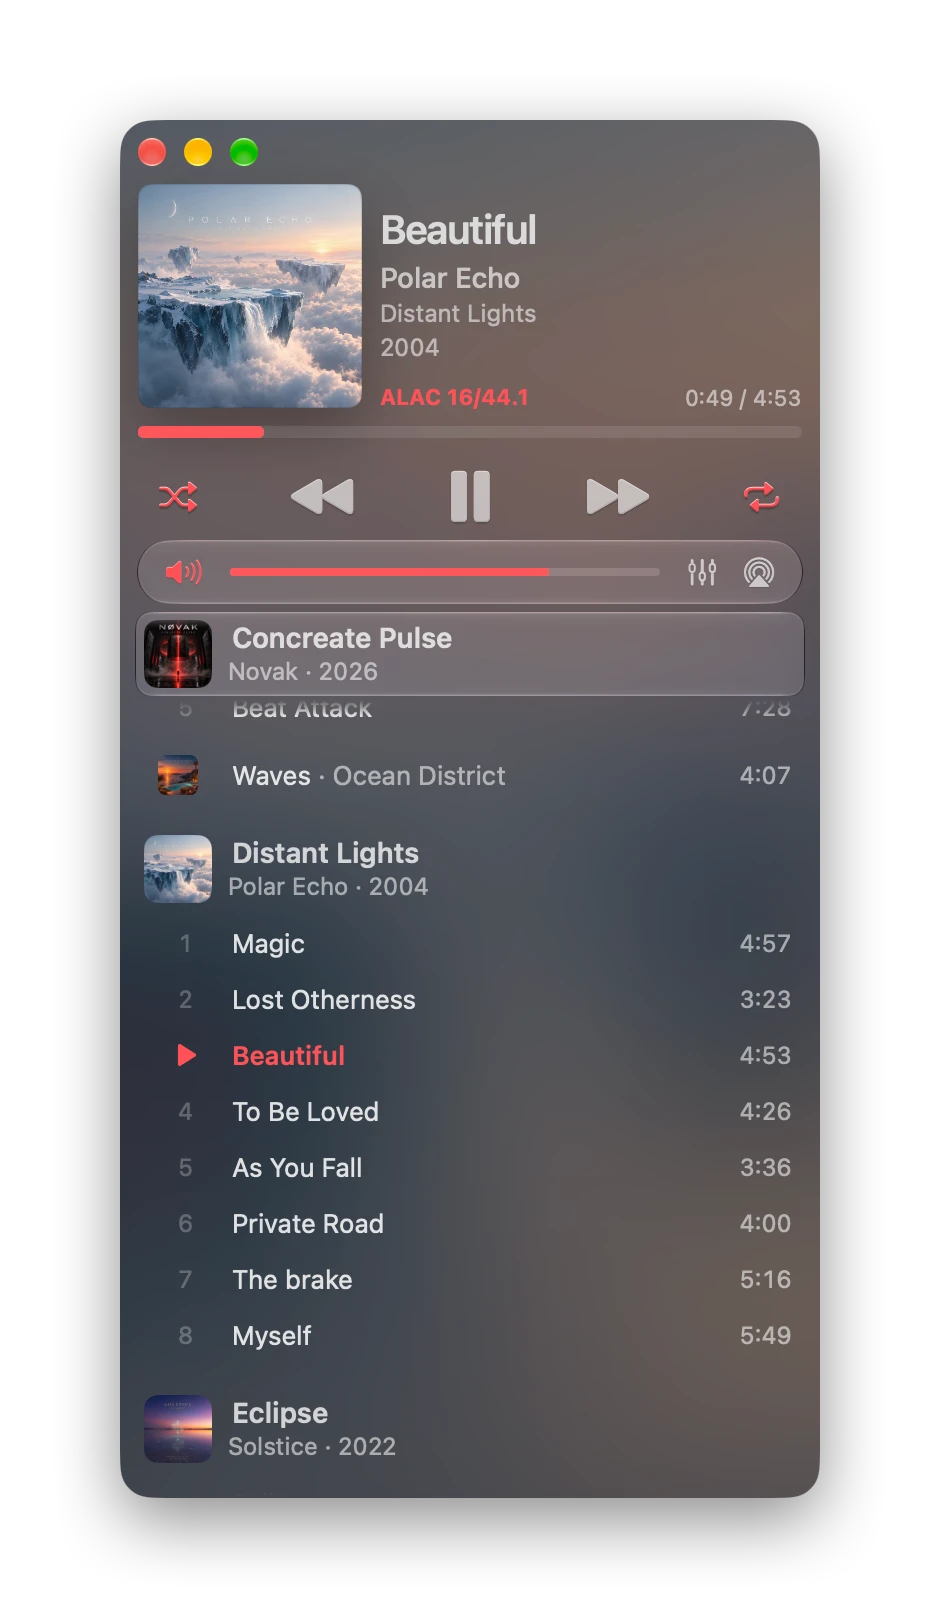
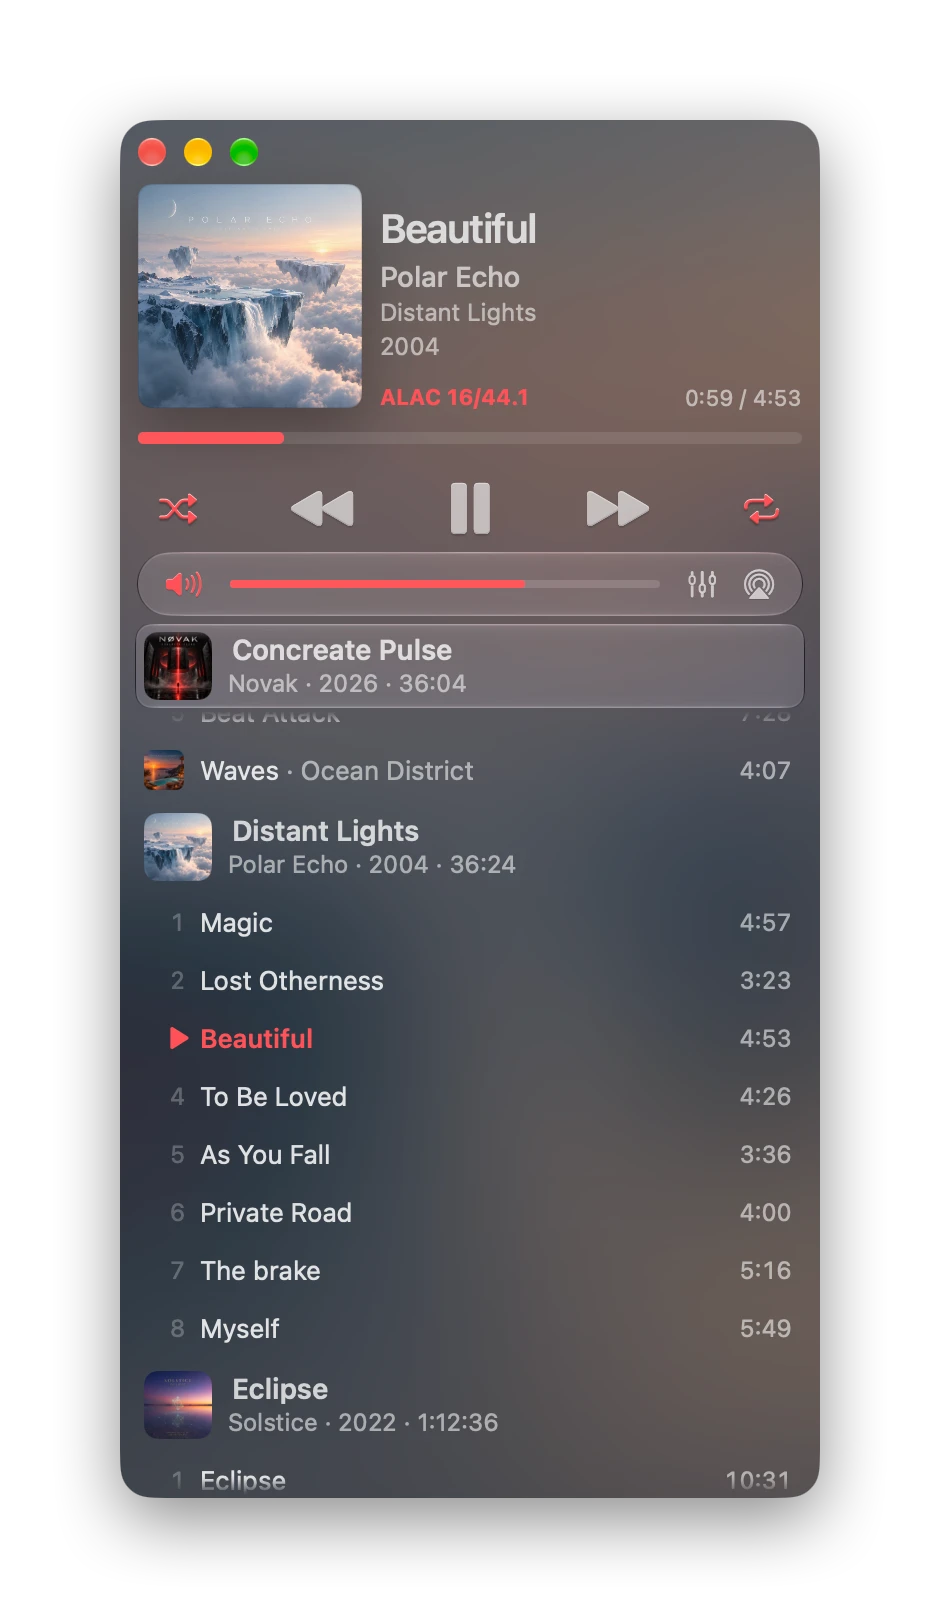
Airy for Mac: 10 new screenshots; Dynamic, Up Next, wide player and compact player sections
Claude-Session: https://claude.ai/code/session_01KuEoozSMi7F77NgTPBECaD

diff --git a/index.html b/index.html
@@ -49,14 +49,14 @@
                 "screenshot": [
                     "https://airyaudio.com/images/player-web.webp",
                     "https://airyaudio.com/images/light-dark-web.webp",
-                    "https://airyaudio.com/images/equalizer-info-web.webp",
-                    "https://airyaudio.com/images/cover-mode-web.webp",
-                    "https://airyaudio.com/images/playlist-views-web.webp",
-                    "https://airyaudio.com/images/pin-artist-web.webp",
+                    "https://airyaudio.com/images/dynamic-web.webp",
                     "https://airyaudio.com/images/album-view-web.webp",
-                    "https://airyaudio.com/images/equalizer-presets-web.webp",
-                    "https://airyaudio.com/images/output-web.webp",
-                    "https://airyaudio.com/images/cover-playlist-web.webp"
+                    "https://airyaudio.com/images/up-next-web.webp",
+                    "https://airyaudio.com/images/one-line-web.webp",
+                    "https://airyaudio.com/images/compact-web.webp",
+                    "https://airyaudio.com/images/equalizer-info-web.webp",
+                    "https://airyaudio.com/images/queue-web.webp",
+                    "https://airyaudio.com/images/cover-mode-web.webp"
                 ],
                 "applicationCategory": "MultimediaApplication",
                 "applicationSubCategory": "Music player",
@@ -129,7 +129,7 @@
             <p class="cta-note">Free to download. Try every Airy Upgrade feature free for 14 days.</p>
             </div>
             <div class="hero-shot bare zoomable">
-                <img src="images/player-web.webp" width="940" height="1618" alt="The Airy player window in Dynamic style with a red accent: album cover, song title, the format ALAC 16/44.1, play controls, a glass volume bar and the playlist grouped by album">
+                <img src="images/player-web.webp" width="940" height="1618" alt="The Airy player in Dynamic style with a red accent: album cover, song title, the format ALAC 16/44.1, play controls, a glass volume bar and the playlist grouped by album, each album with its year and length">
             </div>
         </div>
     </div>
@@ -171,7 +171,7 @@
                 <div class="card">
                     <div class="icon-badge pink"><svg viewBox="0 0 24 24" fill="none" stroke="currentColor" stroke-width="2" stroke-linecap="round" aria-hidden="true"><rect x="3" y="4" width="6" height="6" rx="1.5"/><path d="M12 6h9M12 9h6M5 14h16M5 18h16"/></svg></div>
                     <h3>Album-first playlist</h3>
-                    <p>Songs grouped by album, with covers. Drag and drop to add and reorder, instant search, undo and redo.</p>
+                    <p>Songs grouped by album, with covers, the year and the album's length. Drag and drop to add and reorder, instant search, undo and redo.</p>
                 </div>
             </div>
         </div>
@@ -181,7 +181,7 @@
     <section>
         <div class="wrap">
             <div class="showcase reveal">
-                <div class="shot bare zoomable"><img src="images/light-dark-web.webp" width="1740" height="1618" loading="lazy" alt="Airy in Light with a blue accent and in Dark with a pink one"></div>
+                <div class="shot bare zoomable"><img src="images/light-dark-web.webp" width="1780" height="1658" loading="lazy" alt="Airy in Light with a blue accent and in Dark with a pink one"></div>
                 <div>
                     <span class="tag">Styles and colors</span>
                     <h3>Light, Dark and your own color.</h3>
@@ -191,27 +191,16 @@
             </div>
 
             <div class="showcase flip reveal">
-                <div class="shot bare zoomable"><img src="images/playlist-views-web.webp" width="2000" height="1408" loading="lazy" alt="Four Airy windows: an album name stuck at the top, collapsed albums, a pinned artist and a compact player"></div>
+                <div class="shot bare zoomable"><img src="images/dynamic-web.webp" width="2000" height="1285" loading="lazy" alt="Three Airy windows in the Dynamic style, tinted blue, red and green by their album covers"></div>
                 <div>
-                    <span class="tag">Playlist</span>
-                    <h3>Your music, your way.</h3>
-                    <p>Stick Albums keeps the album name at the top while you scroll. Collapse Albums turns a long playlist into a tidy list of album names, and the one you pick opens.</p>
-                    <p>Make the window as small as a compact player, or hide the cover, the volume bar or the window controls.</p>
+                    <span class="tag">Dynamic style</span>
+                    <h3>Every album, its own color.</h3>
+                    <p>In the Dynamic style the window takes its glow and its accent color from the playing album's cover, and changes with every album.</p>
                 </div>
             </div>
 
             <div class="showcase reveal">
-                <div class="shot bare zoomable narrow"><img src="images/pin-artist-web.webp" width="940" height="1690" loading="lazy" alt="Pin Artist: only The Neon Echoes' albums, with their covers in the plate on top"></div>
-                <div>
-                    <span class="tag">Pin Artist and Pin Playlist</span>
-                    <h3>Only what you want to hear.</h3>
-                    <p>Right-click a song and choose Pin Artist: the list shows only that artist's albums and songs, with their covers on top. Play from there, and the music stays with them.</p>
-                    <p>Pin Playlist, new in Airy 1.1, shows only the songs of a playlist file you added, in its own order. Pins only filter what you see; playback stays where you started it.</p>
-                </div>
-            </div>
-
-            <div class="showcase flip reveal">
-                <div class="shot bare zoomable"><img src="images/album-view-web.webp" width="2000" height="1516" loading="lazy" alt="Album View: a wide Airy window with the albums as a grid of covers, one album open with its songs in two columns"></div>
+                <div class="shot bare zoomable"><img src="images/album-view-web.webp" width="2000" height="1362" loading="lazy" alt="Album View: a wide Airy window with the next songs' covers beside the playing one, the controls in one row and the albums as a grid of covers, one album open with its songs in two columns"></div>
                 <div>
                     <span class="tag">Album View, new in Airy 1.1</span>
                     <h3>Your albums, as covers.</h3>
@@ -220,50 +209,61 @@
                 </div>
             </div>
 
-            <div class="showcase reveal">
-                <div class="shot bare zoomable"><img src="images/equalizer-presets-web.webp" width="1940" height="1566" loading="lazy" alt="The 10-band equalizer with its list of presets open next to the player"></div>
+            <div class="showcase flip reveal">
+                <div class="shot bare zoomable medium"><img src="images/up-next-web.webp" width="1486" height="2000" loading="lazy" alt="A taller Album View window with the next three songs' covers beside the playing song, one album open below its cover"></div>
                 <div>
-                    <span class="tag">Equalizer</span>
+                    <span class="tag">Up Next, new in Airy 1.1</span>
+                    <h3>See what plays next.</h3>
+                    <p>In a wider window the songs that play next appear as covers beside the playing one. Double-click one to play it.</p>
+                </div>
+            </div>
+
+            <div class="showcase reveal">
+                <div class="shot bare zoomable"><img src="images/one-line-web.webp" width="2000" height="1104" loading="lazy" alt="A very wide Airy window: the song, the controls and the volume in one line on top, the album grid below"></div>
+                <div>
+                    <span class="tag">Wide player</span>
+                    <h3>Everything in one line.</h3>
+                    <p>Wider still, the song, the play buttons and the volume share one slim line at the top, and the rest of the window is your albums.</p>
+                </div>
+            </div>
+
+            <div class="showcase flip reveal">
+                <div class="shot bare zoomable"><img src="images/compact-web.webp" width="1760" height="1388" loading="lazy" alt="Four compact Airy players without the playlist, in Dark and Light with different accent colors"></div>
+                <div>
+                    <span class="tag">Compact player</span>
+                    <h3>As small as you like.</h3>
+                    <p>Make the window as small as a compact player, or hide the cover, the volume bar or the window controls with a right-click.</p>
+                </div>
+            </div>
+
+            <div class="showcase reveal">
+                <div class="shot bare zoomable"><img src="images/equalizer-info-web.webp" width="2000" height="1694" loading="lazy" alt="The player with the 10-band equalizer on the Acoustic preset and the Info window with every tag and file detail"></div>
+                <div>
+                    <span class="tag">Equalizer, Output and Info</span>
                     <h3>Tune every band.</h3>
-                    <p>A 10-band equalizer with 13 presets, from Acoustic to Vocal, and your own. Level correction keeps the sound clean when you boost.</p>
+                    <p>A 10-band equalizer with 13 presets and your own, plus Level correction against distortion.</p>
+                    <p>Send Airy to speakers, headphones, a USB DAC or AirPlay right from the volume bar, without changing the sound output of the rest of your Mac.</p>
+                    <p>Song Info shows every tag and file detail: format, sample rate, bit depth, bitrate, size and location. Also for several songs at once.</p>
                 </div>
             </div>
 
             <div class="showcase flip reveal">
-                <div class="shot bare zoomable"><img src="images/output-web.webp" width="2000" height="1493" loading="lazy" alt="Two Airy windows, Dark and Light; in the light one the output menu is open with the Mac's speakers and a display's speakers"></div>
+                <div class="shot bare zoomable"><img src="images/queue-web.webp" width="1780" height="1658" loading="lazy" alt="Two Airy windows: one shows the queue in the search field with seven numbered songs, the other a search for night"></div>
                 <div>
-                    <span class="tag">Output</span>
-                    <h3>Play it where you want.</h3>
-                    <p>Send Airy to speakers, headphones, a USB DAC or AirPlay right from the volume bar, without changing the sound output of the rest of your Mac.</p>
+                    <span class="tag">Queue, search and pins</span>
+                    <h3>Find it, line it up.</h3>
+                    <p>Play Next and Add to Queue number the songs, and your queue shows right in the search field. Search finds any song as you type.</p>
+                    <p>Stick Albums keeps the album name on top while you scroll. Pin Artist or Pin Playlist shows only one artist or one playlist file, and Collapse Albums turns a long list into album names.</p>
                 </div>
             </div>
 
             <div class="showcase reveal">
-                <div class="shot bare zoomable"><img src="images/equalizer-info-web.webp" width="2000" height="1688" loading="lazy" alt="The player with numbered songs in the queue, the equalizer and the Info window with every tag and file detail"></div>
-                <div>
-                    <span class="tag">Song Info</span>
-                    <h3>Every detail of every file.</h3>
-                    <p>Song Info shows every tag and file detail: format, sample rate, bit depth, bitrate, size and location. Also for several songs at once.</p>
-                    <p>Play Next and Add to Queue number the songs, and your queue shows right in the search field.</p>
-                </div>
-            </div>
-
-            <div class="showcase flip reveal">
-                <div class="shot bare zoomable narrow"><img src="images/cover-playlist-web.webp" width="1050" height="1860" loading="lazy" alt="Cover Mode with the playlist below the album art"></div>
+                <div class="shot bare zoomable"><img src="images/cover-mode-web.webp" width="2000" height="1590" loading="lazy" alt="Cover Mode: the album art fills the window; next to it Cover Mode with the playlist below the cover"></div>
                 <div>
                     <span class="tag">Cover Mode</span>
                     <h3>Just the artwork.</h3>
                     <p>Pinch out on the cover, or press it firmly, and the album art fills the window. The controls appear as you move the mouse.</p>
                     <p>The list button shows your playlist under the cover. Pinch in or press Esc to go back.</p>
-                </div>
-            </div>
-
-            <div class="showcase reveal">
-                <div class="shot bare zoomable"><img src="images/cover-mode-web.webp" width="2000" height="1498" loading="lazy" alt="Cover Mode next to an Airy window showing its queue in the search field"></div>
-                <div>
-                    <span class="tag">Queue</span>
-                    <h3>Up next, your way.</h3>
-                    <p>Play Next and Add to Queue, then Airy goes on where it was. Keep Cover Mode on top of your other windows with Window > Keep Cover Mode on Top.</p>
                 </div>
             </div>
         </div>

diff --git a/style.css b/style.css
@@ -880,3 +880,4 @@ code {
 
 /* Tall screenshots (a single narrow window) in a showcase */
 .shot.narrow { max-width: 360px; width: 100%; justify-self: center; margin: 0 auto; }
+.shot.medium { max-width: 480px; width: 100%; justify-self: center; margin: 0 auto; }
